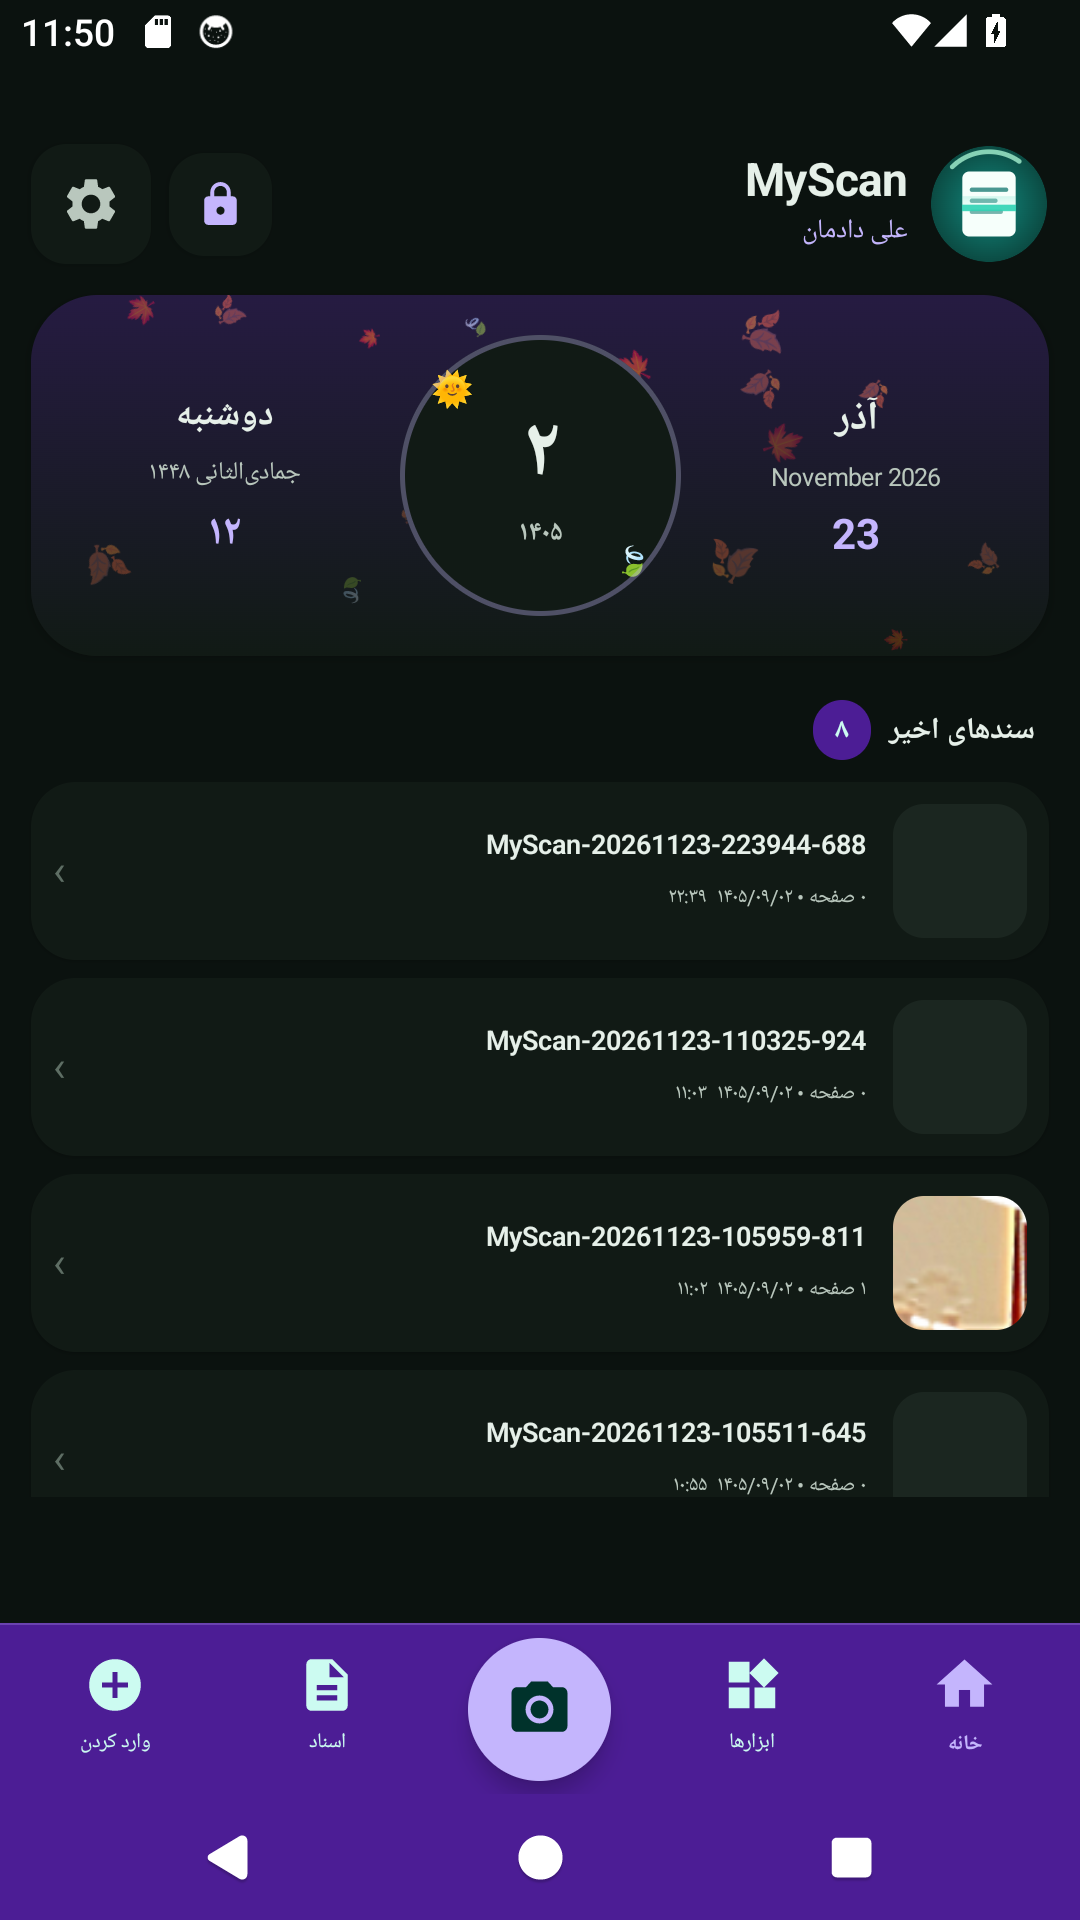
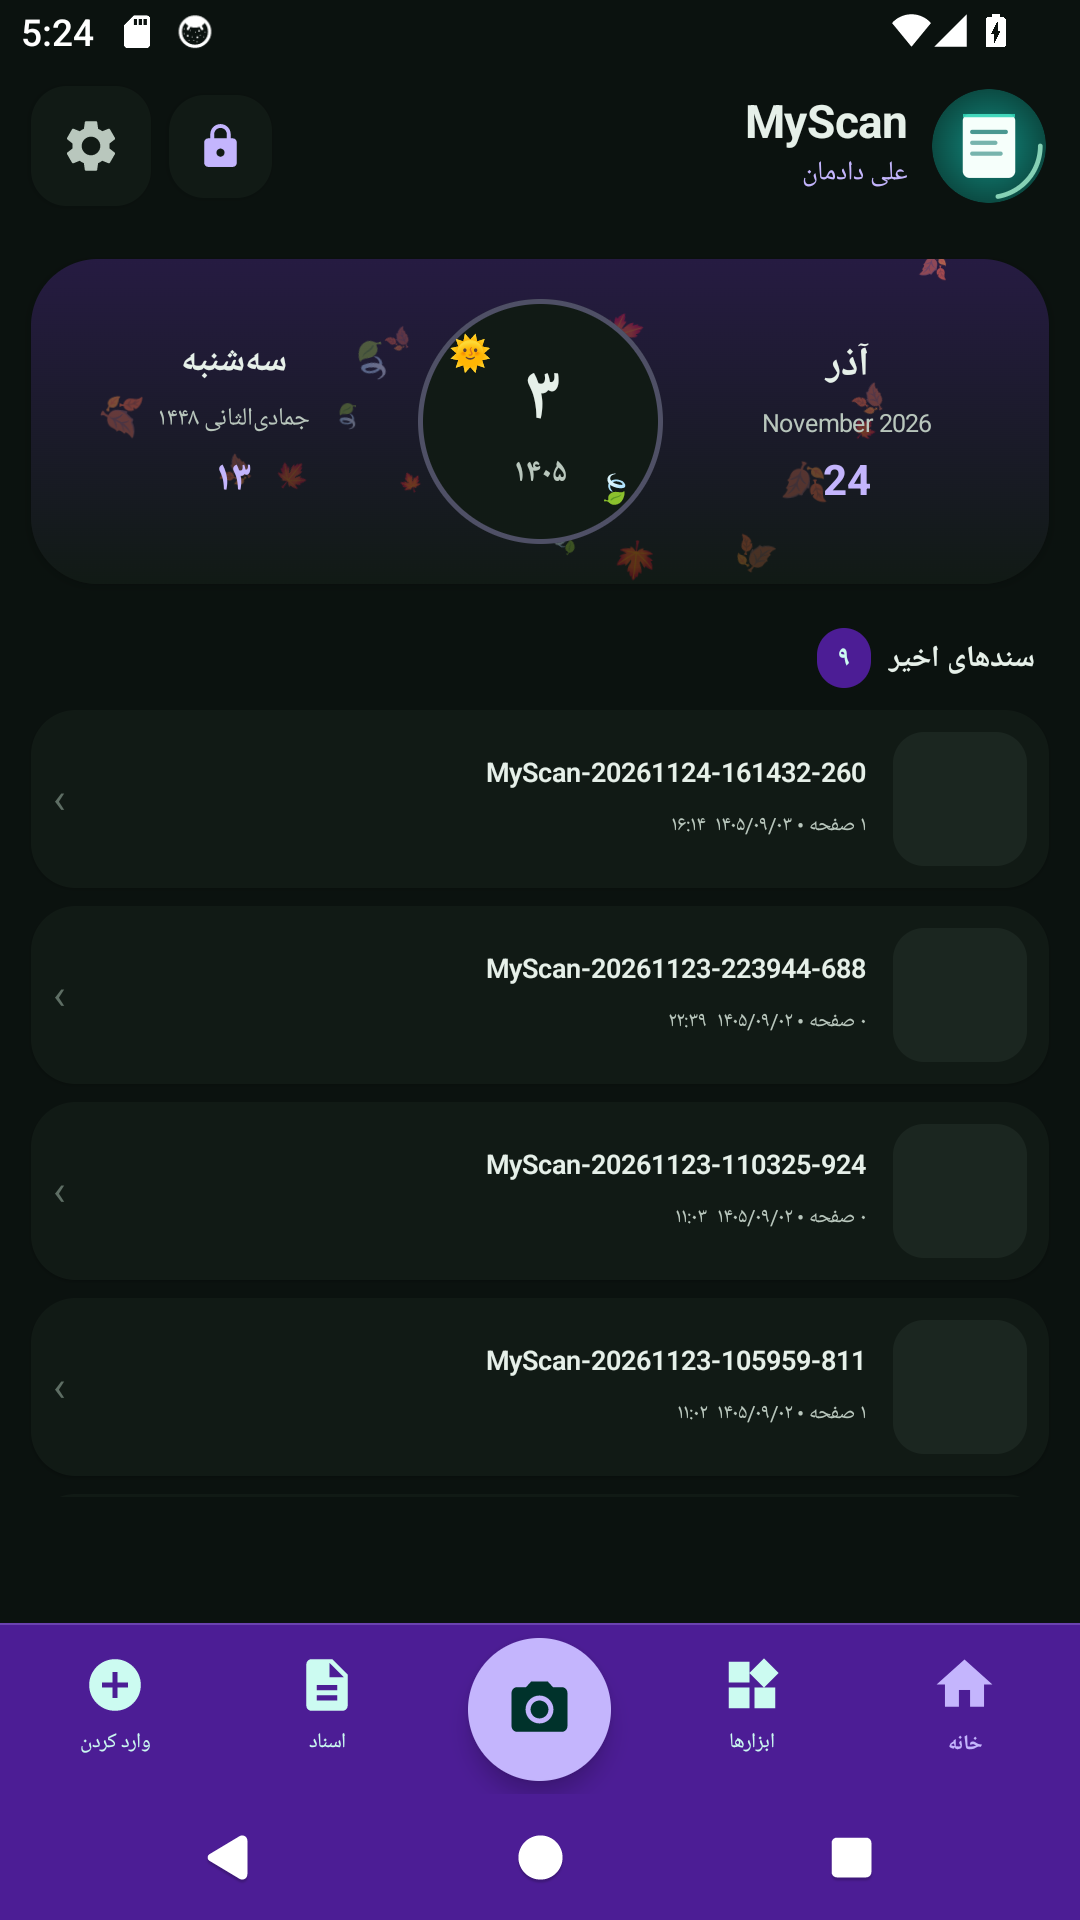
feat: raised header, bigger year, smaller circle, 8-point manual frame, adaptive sharpen, ordered quad

diff --git a/app/src/main/java/ir/scanfa/app/scan/DocumentScanEngine.kt b/app/src/main/java/ir/scanfa/app/scan/DocumentScanEngine.kt
@@ -49,7 +49,19 @@ object DocumentScanEngine {
             if (small !== src) small.recycle()
 
             val center = centerColor(px, w, h)
-            val mask = growFromCenter(px, w, h, center)
+            val mask = BooleanArray(w * h)
+            val seeds = listOf(
+                (h / 2) * w + (w / 2),
+                (h / 2 - h / 12) * w + (w / 2 - w / 12),
+                (h / 2 + h / 12) * w + (w / 2 + w / 12),
+                (h / 2 - h / 12) * w + (w / 2 + w / 12),
+                (h / 2 + h / 12) * w + (w / 2 - w / 12)
+            )
+            for (seed in seeds) {
+                if (seed !in mask.indices) continue
+                val m = growFrom(px, w, h, center, seed)
+                for (i in mask.indices) if (m[i]) mask[i] = true
+            }
             val filled = closeMask(mask, w, h)
 
             val quad = quadFromMask(filled, w, h, src.width, src.height)
@@ -126,7 +138,7 @@ object DocumentScanEngine {
     }
 
     /** رشد ناحیه از مرکز: پیکسلهای سازگار با رنگ مرکز جزو سند میشوند. */
-    private fun growFromCenter(px: IntArray, w: Int, h: Int, center: Int): BooleanArray {
+    private fun growFrom(px: IntArray, w: Int, h: Int, center: Int, startSeed: Int): BooleanArray {
         val cr = (center shr 16) and 0xFF
         val cg = (center shr 8) and 0xFF
         val cb = center and 0xFF
@@ -136,7 +148,7 @@ object DocumentScanEngine {
         var head = 0
         var tail = 0
 
-        val start = (h / 2) * w + (w / 2)
+        val start = startSeed
         queue[tail++] = start
         visited[start] = true
 
@@ -257,20 +269,51 @@ object DocumentScanEngine {
         val top = fitHorizontal(topPts) ?: return null
         val bottom = fitHorizontal(bottomPts) ?: return null
 
-        val tl = intersect(left, top) ?: return null
-        val tr = intersect(right, top) ?: return null
-        val br = intersect(right, bottom) ?: return null
-        val bl = intersect(left, bottom) ?: return null
+        val tl0 = intersect(left, top) ?: return null
+        val tr0 = intersect(right, top) ?: return null
+        val br0 = intersect(right, bottom) ?: return null
+        val bl0 = intersect(left, bottom) ?: return null
 
         // مقیاس از فضای کاری به تصویر اصلی
         val sx = srcW.toFloat() / w
         val sy = srcH.toFloat() / h
-        return Quad(
-            PointF(tl.x * sx, tl.y * sy),
-            PointF(tr.x * sx, tr.y * sy),
-            PointF(br.x * sx, br.y * sy),
-            PointF(bl.x * sx, bl.y * sy)
-        )
+        val pts = listOf(
+            PointF(tl0.x * sx, tl0.y * sy),
+            PointF(tr0.x * sx, tr0.y * sy),
+            PointF(br0.x * sx, br0.y * sy),
+            PointF(bl0.x * sx, bl0.y * sy)
+        ).map { p ->
+            PointF(
+                p.x.coerceIn(0f, srcW - 1f),
+                p.y.coerceIn(0f, srcH - 1f)
+            )
+        }
+        return orderQuad(pts)
+    }
+
+    /** مرتبسازی گوشهها: شروع از بالا-چپ و چرخش در جهت ساعتگرد. */
+    private fun orderQuad(points: List<PointF>): Quad? {
+        if (points.size != 4) return null
+        val cx = points.sumOf { it.x.toDouble() }.toFloat() / 4f
+        val cy = points.sumOf { it.y.toDouble() }.toFloat() / 4f
+        val sorted = points.sortedBy { kotlin.math.atan2(it.y - cy, it.x - cx) }
+        var startIndex = 0
+        var best = Float.MAX_VALUE
+        sorted.forEachIndexed { i, p ->
+            val s = p.x + p.y
+            if (s < best) {
+                best = s
+                startIndex = i
+            }
+        }
+        val rotated = List(4) { sorted[(startIndex + it) % 4] }
+        // اطمینان از جهت ساعتگرد
+        val area = (rotated[0].x * rotated[1].y - rotated[1].x * rotated[0].y) +
+            (rotated[1].x * rotated[2].y - rotated[2].x * rotated[1].y) +
+            (rotated[2].x * rotated[3].y - rotated[3].x * rotated[2].y) +
+            (rotated[3].x * rotated[0].y - rotated[0].x * rotated[3].y)
+        val ordered = if (area < 0f) listOf(rotated[0], rotated[3], rotated[2], rotated[1]) else rotated
+        return Quad(ordered[0], ordered[1], ordered[2], ordered[3])
     }
 
     private data class Line(val a: Float, val b: Float)

diff --git a/app/src/main/java/ir/scanfa/app/ui/EditorScreen.kt b/app/src/main/java/ir/scanfa/app/ui/EditorScreen.kt
@@ -75,6 +75,7 @@ fun EditorScreen(vm: ScannerViewModel, nav: NavHostController, docId: String, pa
     var preview by remember { mutableStateOf<Bitmap?>(null) }
     var corners by remember { mutableStateOf<List<Offset>>(emptyList()) }
     var frameMode by remember { mutableStateOf(false) }
+    var fineFrame by remember { mutableStateOf(false) }
     var filter by remember { mutableStateOf(FilterKind.ORIGINAL) }
     var eraserOn by remember { mutableStateOf(false) }
     var strokes by remember { mutableStateOf<List<Float>>(emptyList()) }
@@ -110,7 +111,29 @@ fun EditorScreen(vm: ScannerViewModel, nav: NavHostController, docId: String, pa
         }
     }
 
-    fun cropList(): List<Float> = corners.flatMap { listOf(it.x, it.y) }
+    fun cropList(): List<Float> {
+        val quad = if (corners.size >= 8) fitQuadFromEight(corners) else corners
+        return quad.flatMap { listOf(it.x, it.y) }
+    }
+
+    fun toggleFine() {
+        if (fineFrame) {
+            corners = corners.filterIndexed { index, _ -> index % 2 == 0 }
+            fineFrame = false
+        } else {
+            if (corners.size == 4) {
+                val list = ArrayList<Offset>()
+                for (i in 0..3) {
+                    val a = corners[i]
+                    val b = corners[(i + 1) % 4]
+                    list.add(a)
+                    list.add(Offset((a.x + b.x) / 2f, (a.y + b.y) / 2f))
+                }
+                corners = list
+            }
+            fineFrame = true
+        }
+    }
 
     fun regenerate() {
         val p = page ?: return
@@ -257,7 +280,7 @@ private fun EditorCanvas(
     val latestCorners by rememberUpdatedState(corners)
     var dragIndex by remember { mutableIntStateOf(-1) }
     val threshold = with(LocalDensity.current) { 64.dp.toPx() }
-    val showFrame = corners.size == 4 && !eraser
+    val showFrame = corners.size >= 4 && !eraser
 
     val gesture = if (eraser) {
         Modifier.pointerInput(bitmap) {
@@ -364,4 +387,44 @@ private fun fitRect(bitmap: Bitmap, width: Float, height: Float): Rect {
     val left = (width - w) / 2f
     val top = (height - h) / 2f
     return Rect(left, top, left + w, top + h)
+}
+
+private data class FitLine(val px: Float, val py: Float, val dx: Float, val dy: Float)
+
+private fun fitLine(points: List<Offset>): FitLine {
+    val mx = points.sumOf { it.x.toDouble() }.toFloat() / points.size
+    val my = points.sumOf { it.y.toDouble() }.toFloat() / points.size
+    var cxx = 0f
+    var cyy = 0f
+    var cxy = 0f
+    for (p in points) {
+        val dx = p.x - mx
+        val dy = p.y - my
+        cxx += dx * dx
+        cyy += dy * dy
+        cxy += dx * dy
+    }
+    val angle = 0.5f * kotlin.math.atan2(2f * cxy, cxx - cyy)
+    return FitLine(mx, my, kotlin.math.cos(angle), kotlin.math.sin(angle))
+}
+
+private fun intersectLines(a: FitLine, b: FitLine): Offset? {
+    val cross = a.dx * b.dy - a.dy * b.dx
+    if (kotlin.math.abs(cross) < 1e-5f) return null
+    val t = ((b.px - a.px) * b.dy - (b.py - a.py) * b.dx) / cross
+    return Offset(a.px + a.dx * t, a.py + a.dy * t)
+}
+
+private fun fitQuadFromEight(points: List<Offset>): List<Offset> {
+    if (points.size < 8) return points.take(4)
+    val c = listOf(points[0], points[2], points[4], points[6])
+    val m = listOf(points[1], points[3], points[5], points[7])
+    val sides = (0..3).map { i -> fitLine(listOf(c[i], m[i], c[(i + 1) % 4])) }
+    val result = ArrayList<Offset>(4)
+    for (i in 0..3) {
+        val prev = sides[(i + 3) % 4]
+        val current = sides[i]
+        result.add(intersectLines(prev, current) ?: c[i])
+    }
+    return result
 }

diff --git a/app/src/main/java/ir/scanfa/app/image/Enhance.kt b/app/src/main/java/ir/scanfa/app/image/Enhance.kt
@@ -73,17 +73,42 @@ object Enhance {
             var g = lut[(c shr 8) and 0xFF]
             var b = lut[c and 0xFF]
             val gray = (r * 299 + g * 587 + b * 114) / 1000
-            val sat = 1.28f
+            val sat = 1.14f
             r = (gray + (r - gray) * sat).roundToInt().coerceIn(0, 255)
             g = (gray + (g - gray) * sat).roundToInt().coerceIn(0, 255)
             b = (gray + (b - gray) * sat).roundToInt().coerceIn(0, 255)
             out[i] = Color.argb(255, r, g, b)
         }
 
-        sharpen(out, w, h, sharpenStrength)
+        // تیزکردن فقط وقتی تصویر نیاز دارد (نرم/تار است)، نه همیشه
+        val energy = edgeEnergy(pixels, w, h)
+        val strength = if (energy < 9f) 0.5f else if (energy < 14f) 0.25f else 0f
+        if (strength > 0f) sharpen(out, w, h, strength)
         val result = Bitmap.createBitmap(w, h, Bitmap.Config.ARGB_8888)
         result.setPixels(out, 0, w, 0, 0, w, h)
         return result
+    }
+
+    private fun edgeEnergy(px: IntArray, w: Int, h: Int): Float {
+        var sum = 0.0
+        var count = 0
+        var y = 1
+        while (y < h - 1) {
+            var x = 1
+            while (x < w - 1) {
+                val c = px[y * w + x]
+                val left = px[y * w + x - 1]
+                val up = px[(y - 1) * w + x]
+                val l = (((c shr 16) and 0xFF) + ((c shr 8) and 0xFF) + (c and 0xFF)) / 3
+                val ll = (((left shr 16) and 0xFF) + ((left shr 8) and 0xFF) + (left and 0xFF)) / 3
+                val lu = (((up shr 16) and 0xFF) + ((up shr 8) and 0xFF) + (up and 0xFF)) / 3
+                sum += kotlin.math.abs(l - ll) + kotlin.math.abs(l - lu)
+                count++
+                x += 3
+            }
+            y += 3
+        }
+        return if (count == 0) 0f else (sum / count).toFloat()
     }
 
     private fun sharpen(px: IntArray, w: Int, h: Int, strength: Float) {

diff --git a/app/src/main/java/ir/scanfa/app/ui/DateHero.kt b/app/src/main/java/ir/scanfa/app/ui/DateHero.kt
@@ -104,7 +104,7 @@ fun DateHeroCard(
 
                     Box(
                         Modifier
-                            .size(126.dp)
+                            .size(110.dp)
                             .background(scheme.surface, CircleShape)
                             .border(2.dp, scheme.primary.copy(alpha = 0.35f), CircleShape),
                         contentAlignment = Alignment.Center
@@ -122,13 +122,13 @@ fun DateHeroCard(
                         Column(horizontalAlignment = Alignment.CenterHorizontally) {
                             Text(
                                 Calendars.fa(j.jd),
-                                fontSize = 44.sp,
+                                fontSize = 40.sp,
                                 fontWeight = FontWeight.Bold,
                                 color = scheme.onSurface
                             )
                             Text(
                                 Calendars.fa(j.jy),
-                                fontSize = 14.sp,
+                                fontSize = 17.sp,
                                 fontWeight = FontWeight.SemiBold,
                                 color = scheme.onSurfaceVariant
                             )

diff --git a/app/src/main/java/ir/scanfa/app/ui/AppHeader.kt b/app/src/main/java/ir/scanfa/app/ui/AppHeader.kt
@@ -5,6 +5,7 @@ import androidx.compose.foundation.layout.Column
 import androidx.compose.foundation.layout.Row
 import androidx.compose.foundation.layout.Spacer
 import androidx.compose.foundation.layout.fillMaxWidth
+import androidx.compose.foundation.layout.offset
 import androidx.compose.foundation.layout.padding
 import androidx.compose.foundation.layout.size
 import androidx.compose.foundation.layout.statusBarsPadding
@@ -40,7 +41,7 @@ fun AppHeader(
 ) {
     val scheme = MaterialTheme.colorScheme
     Row(
-        Modifier.fillMaxWidth().statusBarsPadding().padding(horizontal = 14.dp, vertical = 8.dp),
+        Modifier.fillMaxWidth().statusBarsPadding().offset(y = (-18).dp).padding(horizontal = 14.dp, vertical = 0.dp),
         verticalAlignment = Alignment.CenterVertically
     ) {
         Box(
